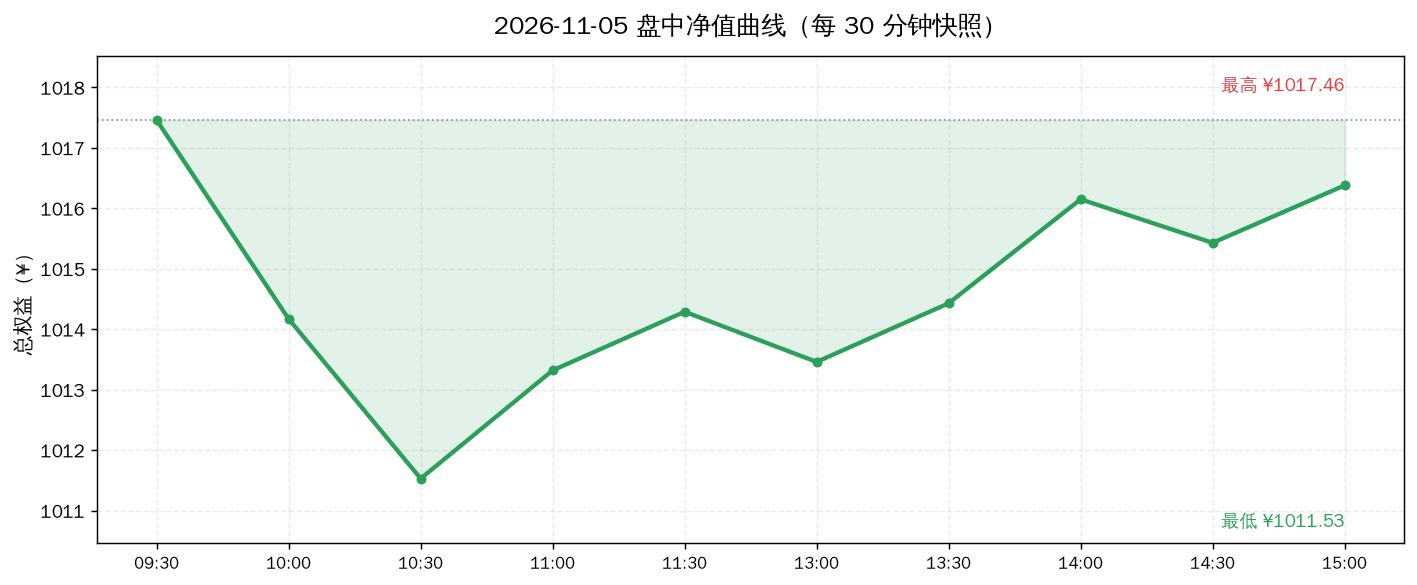
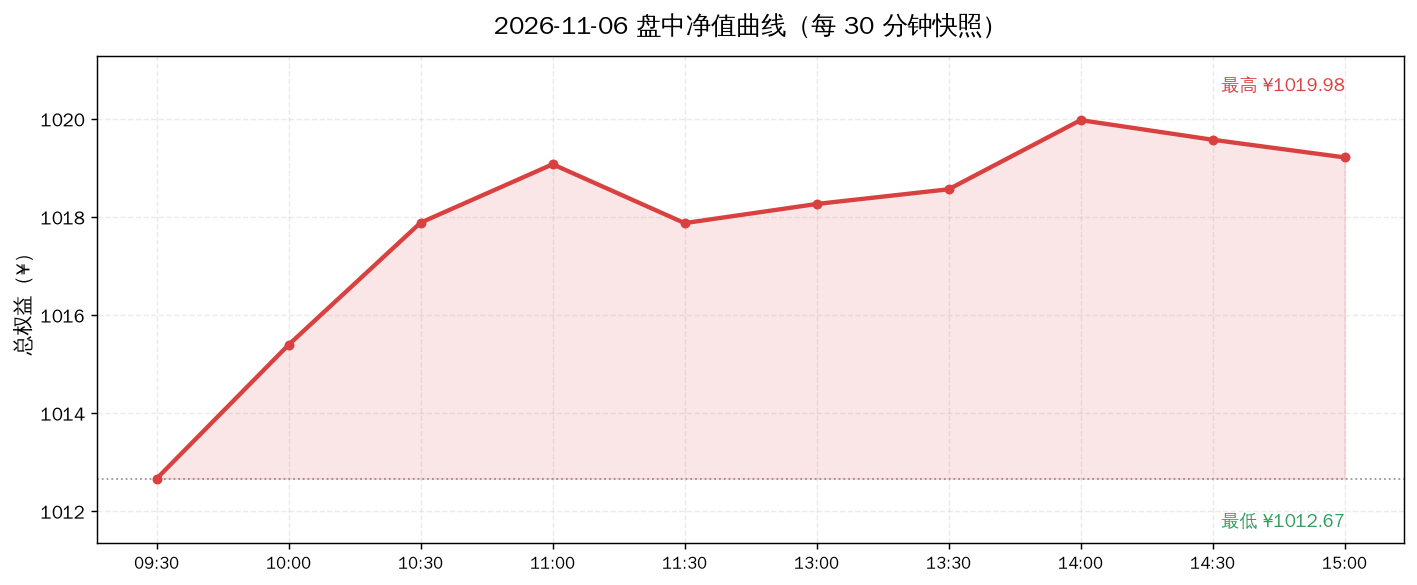
sim: dashboard update 2026-11-06 (equity ¥1019.23, +1.923%)

diff --git a/sim/DASHBOARD.md b/sim/DASHBOARD.md
@@ -1,8 +1,8 @@
 # 📊 模拟盘动态看板
 
-> **自动生成** · 最后更新 **2026-11-05 16:30** · 数据源：腾讯财经公开接口（实时行情）
+> **自动生成** · 最后更新 **2026-11-06 16:30** · 数据源：腾讯财经公开接口（实时行情）
 >
-> 本金 **¥1000.00** · 开仓 **2026-10-28** · 当前总权益 **¥1016.39** · 累计 **+1.639%**
+> 本金 **¥1000.00** · 开仓 **2026-10-28** · 当前总权益 **¥1019.23** · 累计 **+1.923%**
 >
 > ⚠ **纯模拟盘学习实验，不构成投资建议。**
 >
@@ -12,9 +12,9 @@
 
 ## 🎯 30 秒版本
 
-1. 从 2026-10-28 开仓到今天，账户从 ¥1000 变成 **¥1016.39**，赚了 **¥16.39（+1.639%）**。
-2. 今天单日 **+0.06%**，上涨 **¥0.57**。
-3. 同期大盘：**沪深300 +0.72%** 最强，**创业板指 -2.58%** 最弱 —— 本组合跑赢同期最强基准 +0.92 个百分点。
+1. 从 2026-10-28 开仓到今天，账户从 ¥1000 变成 **¥1019.23**，赚了 **¥19.23（+1.923%）**。
+2. 今天单日 **+0.28%**，上涨 **¥2.84**。
+3. 同期大盘：**沪深300 -0.72%** 最强，**创业板指 -6.43%** 最弱 —— 本组合跑赢同期最强基准 +2.65 个百分点。
 
 ## 📈 盈亏曲线
 
@@ -34,7 +34,7 @@
 
 ![盘中曲线](assets/intraday.png)
 
-**怎么读**：2026-11-05 当天每 30 分钟记录一次的账户总值。灰色虚线是当天开盘起点，曲线在虚线上方就是当天浮盈。A 股中午 11:30–13:00 休市，所以那段是平的。
+**怎么读**：2026-11-06 当天每 30 分钟记录一次的账户总值。灰色虚线是当天开盘起点，曲线在虚线上方就是当天浮盈。A 股中午 11:30–13:00 休市，所以那段是平的。
 
 ### 💵 每日盈亏明细图
 
@@ -50,21 +50,21 @@
 
 | 指标 | 数值 | 人话解读 |
 |---|---|---|
-| 总权益 | **¥1016.39** | 现在全部卖掉能拿回多少钱（持仓市值 + 现金） |
-| 持仓市值 | ¥742.55（73.1%） | 买成 ETF 的部分 |
-| 现金 | ¥273.84（26.9%） | 留着没买的钱，按货基利率计息 |
-| 累计盈亏 | **¥+16.39（+1.639%）** | 相对 ¥1000 本金 |
-| 今日盈亏 | **+0.06%** | 今天一天的变化 |
-| 历史最高 | ¥1017.02 | 账户到过的最高点 |
-| 当前回撤 | -0.062% | 离最高点还差多少（负数=没回到最高点） |
+| 总权益 | **¥1019.23** | 现在全部卖掉能拿回多少钱（持仓市值 + 现金） |
+| 持仓市值 | ¥745.38（73.1%） | 买成 ETF 的部分 |
+| 现金 | ¥273.85（26.9%） | 留着没买的钱，按货基利率计息 |
+| 累计盈亏 | **¥+19.23（+1.923%）** | 相对 ¥1000 本金 |
+| 今日盈亏 | **+0.28%** | 今天一天的变化 |
+| 历史最高 | ¥1019.23 | 账户到过的最高点 |
+| 当前回撤 | +0.000% | 离最高点还差多少（负数=没回到最高点） |
 
 ### 持仓明细
 
 | 标的 | 代码 | 持股 | 成本价 | 现价 | 今日 | 市值 | 浮动盈亏 | 人话解读 |
 |---|---|---|---|---|---|---|---|---|
-| 红利低波100ETF景顺 | 515100 | 450 | ¥1.431 | ¥1.463 | 🔻-0.20% | ¥658.35 | **+14.40（+2.24%）** | 赚钱了 |
-| 黄金ETF华安 | 518880 | 10 | ¥8.226 | ¥8.420 | 🔺+2.32% | ¥84.20 | **+1.94（+2.36%）** | 赚钱了 |
-| 现金 | — | — | — | — | — | ¥273.84 | — | 货基计息，年化 0.84% |
+| 红利低波100ETF景顺 | 515100 | 450 | ¥1.431 | ¥1.473 | 🔺+0.68% | ¥662.85 | **+18.90（+2.94%）** | 赚钱了 |
+| 黄金ETF华安 | 518880 | 10 | ¥8.226 | ¥8.253 | 🔻-1.98% | ¥82.53 | **+0.27（+0.33%）** | 赚钱了 |
+| 现金 | — | — | — | — | — | ¥273.85 | — | 货基计息，年化 0.84% |
 
 ---
 
@@ -110,33 +110,41 @@
 
 | 资产 | 目标占比 | 实际占比 | 偏离 | 判定 |
 |---|---|---|---|---|
-| 红利低波100ETF景顺 | 65% | 64.8% | -0.2pp | 🟢 正常，不动 |
-| 黄金ETF华安 | 8% | 8.3% | +0.3pp | 🟢 正常，不动 |
+| 红利低波100ETF景顺 | 65% | 65.0% | +0.0pp | 🟢 正常，不动 |
+| 黄金ETF华安 | 8% | 8.1% | +0.1pp | 🟢 正常，不动 |
 | 现金（货基） | 27% | 26.9% | -0.1pp | 🟢 正常，不动 |
 
 #### ② 补仓条件检查（规则：跌到成本价 -8% 触发补仓，每只最多 2 次）
 
 | 标的 | 成本价 | 现价 | 距成本 | 已补仓 | 判定 |
 |---|---|---|---|---|---|
-| 红利低波100ETF景顺 | ¥1.431 | ¥1.463 | +2.24% | 0/2 | 🟢 未触发（还差 10.2pp 才到 -8%） |
-| 黄金ETF华安 | ¥8.226 | ¥8.420 | +2.36% | 0/2 | 🟢 未触发（还差 10.4pp 才到 -8%） |
+| 红利低波100ETF景顺 | ¥1.431 | ¥1.473 | +2.94% | 0/2 | 🟢 未触发（还差 10.9pp 才到 -8%） |
+| 黄金ETF华安 | ¥8.226 | ¥8.253 | +0.33% | 0/2 | 🟢 未触发（还差 8.3pp 才到 -8%） |
 
 #### ③ 回撤检查（规则：账户从最高点回撤 -5% 只记录、不割肉）
 
 | 指标 | 数值 |
 |---|---|
-| 历史最高净值 | ¥1017.02（2026-11-03） |
-| 当前净值 | ¥1016.39（2026-11-05） |
-| 回撤幅度 | **-0.062%** |
+| 历史最高净值 | ¥1019.23（2026-11-06） |
+| 当前净值 | ¥1019.23（2026-11-06） |
+| 回撤幅度 | **+0.000%** |
 | 触发阈值 | -5% |
 
-> 🟢 **未触发**：距阈值还有 4.94pp 缓冲。即使触发，纪律也是记录而非卖出。
+> 🟢 **未触发**：距阈值还有 5.00pp 缓冲。即使触发，纪律也是记录而非卖出。
 
 #### ④ 今日结论
 
 > ⏸ **账户已冻结，不执行任何交易。** 以上检查仅作记录用途——共扫描 6 项纪律，触发 **0** 项。冻结状态下即使触发也不动手（用户决定不投 A 股）。
 
 ### 四、每日决策记录（当时怎么判断的）
+
+#### 📅 2026-11-06 · 权益 ¥1019.23（累计 +1.923%）
+
+- 总权益 **¥1019.23**（当日 +0.28% / 累计 +1.923%）
+- 红利低波100ETF景顺 1.473 (+0.68%)
+- 黄金ETF华安 8.253 (-1.98%)
+- 现金 ¥273.85
+- 📝 自动收盘估值（看板 cron）
 
 #### 📅 2026-11-05 · 权益 ¥1016.39（累计 +1.639%）
 
@@ -201,9 +209,9 @@
 
 | 指数 | 同期涨跌 | 本组合超额 | 人话解读 |
 |---|---|---|---|
-| 沪深300 | +0.72% | **+0.92pp** | 跑赢 0.92 个百分点 |
-| 创业板指 | -2.58% | **+4.22pp** | 跑赢 4.22 个百分点 |
-| 上证指数 | +0.23% | **+1.41pp** | 跑赢 1.41 个百分点 |
+| 沪深300 | -0.72% | **+2.65pp** | 跑赢 2.65 个百分点 |
+| 创业板指 | -6.43% | **+8.36pp** | 跑赢 8.36 个百分点 |
+| 上证指数 | -0.88% | **+2.80pp** | 跑赢 2.80 个百分点 |
 
 > 注：`pp` = percentage point（百分点），是两个百分比相减的单位。「+2.5pp」意思是「比它高 2.5 个百分点」，不是「高 2.5%」。
 
@@ -218,6 +226,7 @@
 | 2026-11-03 | ¥1017.02 | ¥743.19 | ¥273.83 | +1.702% |
 | 2026-11-04 | ¥1015.82 | ¥741.99 | ¥273.83 | +1.582% |
 | 2026-11-05 | ¥1016.39 | ¥742.55 | ¥273.84 | +1.639% |
+| 2026-11-06 | ¥1019.23 | ¥745.38 | ¥273.85 | +1.923% |
 
 ---
 
@@ -230,4 +239,4 @@
 
 ---
 
-_本页由 `dashboard.py` 自动生成于 2026-11-05 16:30:08，每个交易日收盘后刷新。_
+_本页由 `dashboard.py` 自动生成于 2026-11-06 16:30:57，每个交易日收盘后刷新。_

diff --git a/sim/journal.md b/sim/journal.md
@@ -71,3 +71,11 @@
 - 现金 ¥273.84
 - 📝 自动收盘估值（看板 cron）
 
+## 2026-11-06 收盘
+
+- 总权益 **¥1019.23**（当日 +0.28% / 累计 +1.923%）
+- 红利低波100ETF景顺 1.473 (+0.68%)
+- 黄金ETF华安 8.253 (-1.98%)
+- 现金 ¥273.85
+- 📝 自动收盘估值（看板 cron）
+
